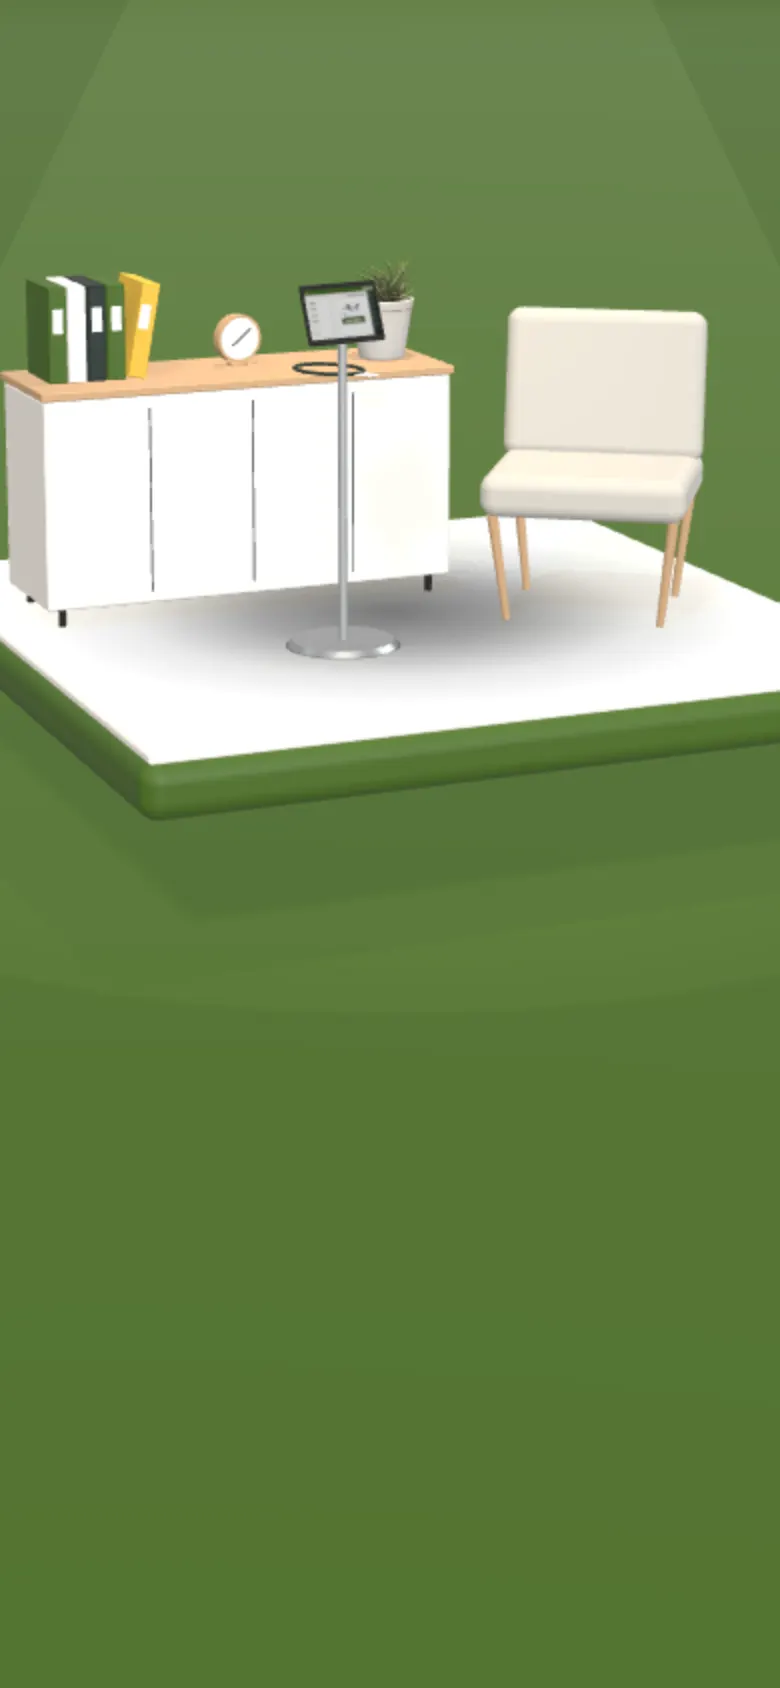
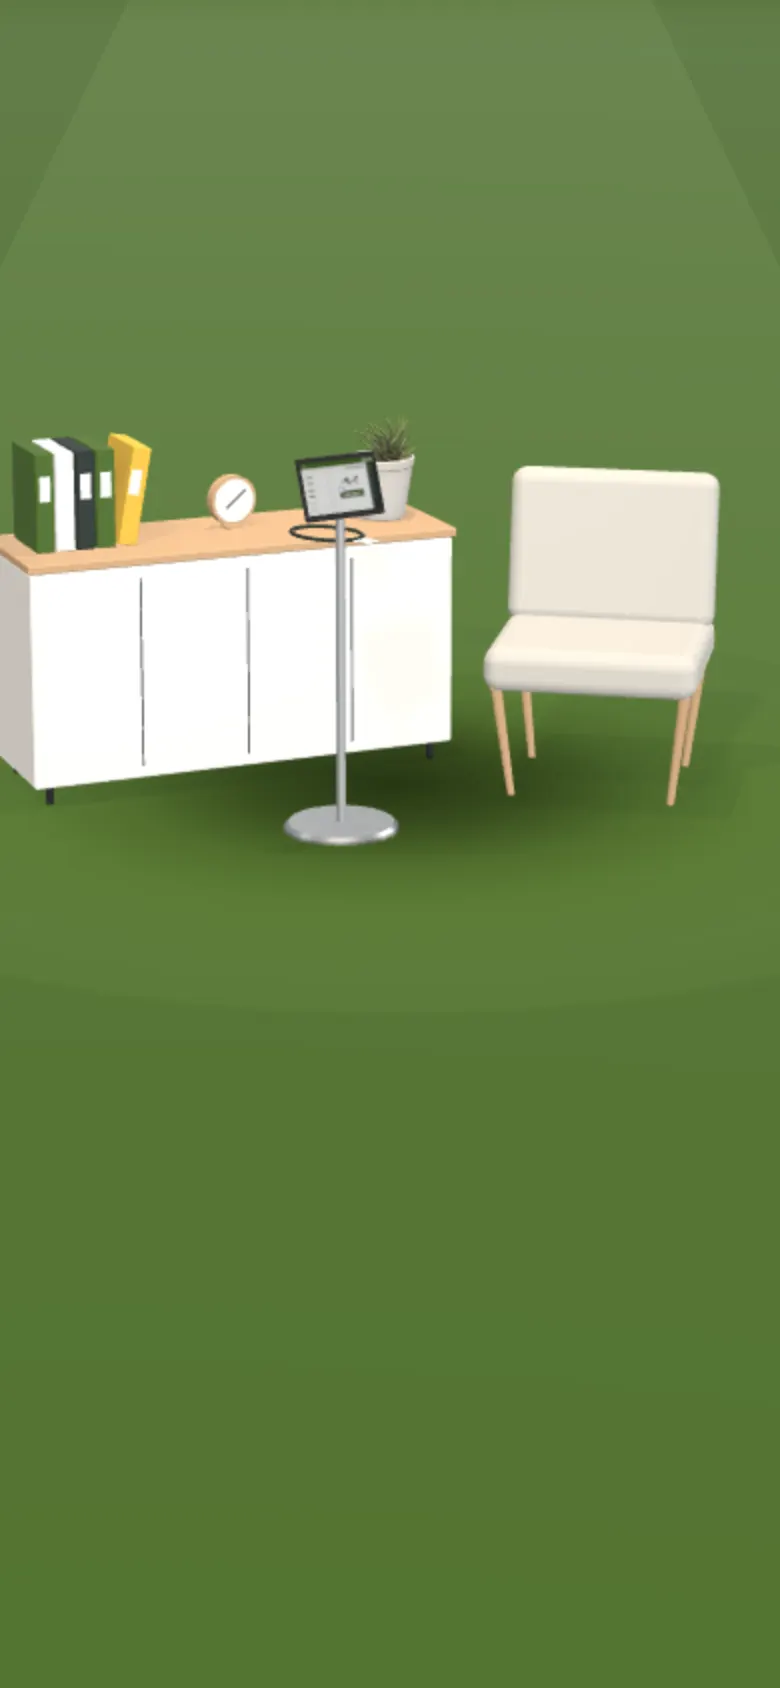
Hero: systems stand on the floor in a 4-2-1 wedge, read right to left, no pedestals

Changed region(s): [[0.0, 0.154, 1.0, 0.5237]]

diff --git a/src/three/Showroom.tsx b/src/three/Showroom.tsx
@@ -3,7 +3,6 @@ import { Canvas, useFrame, useThree } from '@react-three/fiber'
 import { Html, useGLTF } from '@react-three/drei'
 import * as THREE from 'three'
 import { RoomEnvironment } from 'three/examples/jsm/environments/RoomEnvironment.js'
-import { RoundedBoxGeometry } from 'three/examples/jsm/geometries/RoundedBoxGeometry.js'
 
 import { GALLERY, HERO_SHOT, HERO_SHOT_MOBILE, LAMP, MODEL_FILES, STATIONS, type Item, type Layout } from './stations'
 import { blueprint, device, screenTexture } from './devices'
@@ -157,14 +156,18 @@ function buildStation(index: number, scenes: Record<string, THREE.Object3D>) {
 }
 
 /**
- * The systems stand on slim floating tiles that nest in a two-row brick pattern,
- * seen from above at an angle: separate products, one cluster, one company.
+ * The systems stand straight on the floor in a wedge: four in front, two behind them,
+ * and the next project alone at the back. Read right to left, like the page.
  */
-const TILE = { size: GALLERY.tile, gap: GALLERY.tileGap, h: GALLERY.tileHeight }
-const HALF = (TILE.size + TILE.gap) / 2
+const ROWS = [4, 2, 1]
+const SP = GALLERY.spacing
 
 function spotPos(i: number) {
-  return { x: (i - (STATIONS.length - 1) / 2) * HALF * 1.0, z: i % 2 ? HALF : -HALF, ry: 0 }
+  let row = 0
+  let k = i
+  while (k >= ROWS[row]) k -= ROWS[row++]
+  const n = ROWS[row]
+  return { x: ((n - 1) / 2 - k) * SP, z: (1 - row) * GALLERY.rowDepth, ry: 0 }
 }
 
 /* ---------- camera choreography ---------- */
@@ -175,7 +178,7 @@ interface View {
 }
 
 const FOV = 30
-const HALF_ROW = ((STATIONS.length - 1) / 2) * HALF + TILE.size / 2
+const HALF_ROW = ((ROWS[0] - 1) / 2) * SP + GALLERY.stationSize / 2
 
 function viewFor(stop: number, mobile: boolean, aspect: number): View {
   if (stop === 0) {
@@ -200,7 +203,7 @@ function viewFor(stop: number, mobile: boolean, aspect: number): View {
 /** How far the picture slides to make room for the text. */
 function shiftFor(layout: View['layout'], mobile: boolean): [number, number] {
   if (mobile) return [0, layout === 'hero' ? 0.28 : 0.2]
-  if (layout === 'hero') return [0, -0.13]
+  if (layout === 'hero') return [0, -0.08]
   if (layout === 'a') return [0.17, 0]
   if (layout === 'b') return [-0.17, 0]
   return [0, 0.25]
@@ -421,28 +424,36 @@ const SHADOW_TEX = (() => {
   return new THREE.CanvasTexture(c)
 })()
 
-/** A floating tile: a slab in the system colour with a light top, and a soft contact shadow. */
-const TILE_TOP = new THREE.MeshStandardMaterial({ color: '#f4f1eb', roughness: 0.55 })
-function tile(color: string) {
+/** Under each system: a faint glow of its colour and a soft contact shadow, no pedestal. */
+const GLOW_TEX = (() => {
+  const c = document.createElement('canvas')
+  c.width = c.height = 256
+  const x = c.getContext('2d')!
+  const g = x.createRadialGradient(128, 128, 0, 128, 128, 128)
+  g.addColorStop(0, 'rgba(255,255,255,.55)')
+  g.addColorStop(0.6, 'rgba(255,255,255,.22)')
+  g.addColorStop(1, 'rgba(255,255,255,0)')
+  x.fillStyle = g
+  x.fillRect(0, 0, 256, 256)
+  const t = new THREE.CanvasTexture(c)
+  t.colorSpace = THREE.SRGBColorSpace
+  return t
+})()
+function ground(color: string) {
   const g = new THREE.Group()
-  const base = new THREE.Mesh(new RoundedBoxGeometry(TILE.size, TILE.h, TILE.size, 4, 0.06), new THREE.MeshStandardMaterial({ color, roughness: 0.5 }))
-  base.position.y = TILE.h / 2
-  const top = new THREE.Mesh(new RoundedBoxGeometry(TILE.size - 0.05, 0.03, TILE.size - 0.05, 3, 0.012), TILE_TOP)
-  top.position.y = TILE.h + 0.005
-  ;[base, top].forEach((m) => {
-    m.receiveShadow = true
-    m.castShadow = true
-  })
+  const glow = new THREE.Mesh(
+    new THREE.PlaneGeometry(GALLERY.stationSize * 1.5, GALLERY.stationSize * 1.5).rotateX(-Math.PI / 2),
+    new THREE.MeshBasicMaterial({ color, map: GLOW_TEX, transparent: true, depthWrite: false }),
+  )
+  glow.position.y = 0.004
   const contact = new THREE.Mesh(
-    new THREE.PlaneGeometry(TILE.size * 0.92, TILE.size * 0.92).rotateX(-Math.PI / 2),
+    new THREE.PlaneGeometry(GALLERY.stationSize * 1.05, GALLERY.stationSize * 1.05).rotateX(-Math.PI / 2),
     new THREE.MeshBasicMaterial({ map: SHADOW_TEX, transparent: true, depthWrite: false }),
   )
-  contact.position.y = TILE.h + 0.025
-  g.add(base, top, contact)
+  contact.position.y = 0.008
+  g.add(glow, contact)
   return g
 }
-/** Height of a tile's top surface, where the station stands. */
-const TILE_TOP_Y = TILE.h + 0.022
 
 function Stations({ interactive, fixedStop, reduced, onLamp }: { interactive: boolean; fixedStop?: number; reduced: boolean; onLamp: (l: ReturnType<typeof useLamp>) => void }) {
   const gltfs = useGLTF(MODEL_FILES.map(url))
@@ -455,27 +466,19 @@ function Stations({ interactive, fixedStop, reduced, onLamp }: { interactive: bo
   const lamp = useLamp(scenes)
   useEffect(() => onLamp(lamp), [lamp, onLamp])
 
-  const { groups, outers, floats } = useMemo(() => {
+  const { groups, outers } = useMemo(() => {
     const groups: THREE.Group[] = []
-    const floats: THREE.Group[] = []
     const outers = STATIONS.map((_, i) => {
       const g = buildStation(i, scenes)
       groups.push(g)
       const outer = new THREE.Group()
       const p = spotPos(i)
-      outer.position.set(p.x, 0.35, p.z)
+      outer.position.set(p.x, 0, p.z)
       outer.rotation.y = p.ry
-      // the tile and its station float together
-      const float = new THREE.Group()
-      const holder = new THREE.Group()
-      holder.position.y = TILE_TOP_Y
-      holder.add(g)
-      float.add(tile(tourStops[i].color), holder)
-      outer.add(float)
-      floats.push(float)
+      outer.add(ground(tourStops[i].color), g)
       return outer
     })
-    return { groups, outers, floats }
+    return { groups, outers }
   }, [scenes])
   const shown = useRef(STATIONS.map(() => 1))
 
@@ -492,8 +495,6 @@ function Stations({ interactive, fixedStop, reduced, onLamp }: { interactive: bo
       const e = v * v * (3 - 2 * v)
       outers[i].scale.setScalar(Math.max(0.001, e))
       outers[i].visible = e > 0.01
-      // tiles drift gently, each on its own beat
-      floats[i].position.y = reduced ? 0 : Math.sin(time * 0.8 + i * 0.9) * 0.05
       const lift = interactive && hover === i && tour.pos < 0.3 ? 0.22 : 0
       g.position.y += (lift - g.position.y) * k
       const focus = Math.max(0, 1 - Math.abs(pos - (i + 1)))

diff --git a/src/three/stations.ts b/src/three/stations.ts
@@ -155,18 +155,17 @@ export const STATIONS: Station[] = [
 ]
 
 export const GALLERY = {
-  tile: 2.3, // each system stands on a floating tile this wide
-  tileGap: 0.3, // space between tiles
-  tileHeight: 0.16, // thickness of a tile
-  stationSize: 2.0, // every station is scaled to this footprint
-  heroFill: 0.5, // share of the screen width the cluster fills in the opening view
+  spacing: 2.7, // distance between neighbours in a row
+  rowDepth: 3.1, // distance between rows (front row of four, then two, then one)
+  stationSize: 2.1, // every station is scaled to this footprint
+  heroFill: 0.55, // share of the screen width the front row fills in the opening view
 }
 
 /** The lamp: how high it hangs over the overview and over each system. */
 export const LAMP = { file: 'modern_ceiling_lamp_01', scale: 1.7, heroHeight: 6.4, stopHeight: 5.4, heroAngle: 1.05, stopAngle: 0.5 }
 
 /** The opening view: the whole line, seen from the front. The distance is fitted to the screen width at runtime. */
-export const HERO_SHOT = { pos: [0, 14, 27] as const, look: [0, 1.6, 0] as const }
+export const HERO_SHOT = { pos: [0, 16, 26] as const, look: [0, 0.6, 0.8] as const }
 /** On phones the line is seen end-on so it fits the narrow screen. */
 export const HERO_SHOT_MOBILE = { pos: [-40, 36, 14] as const, look: [1.5, 0, 0] as const }
 
